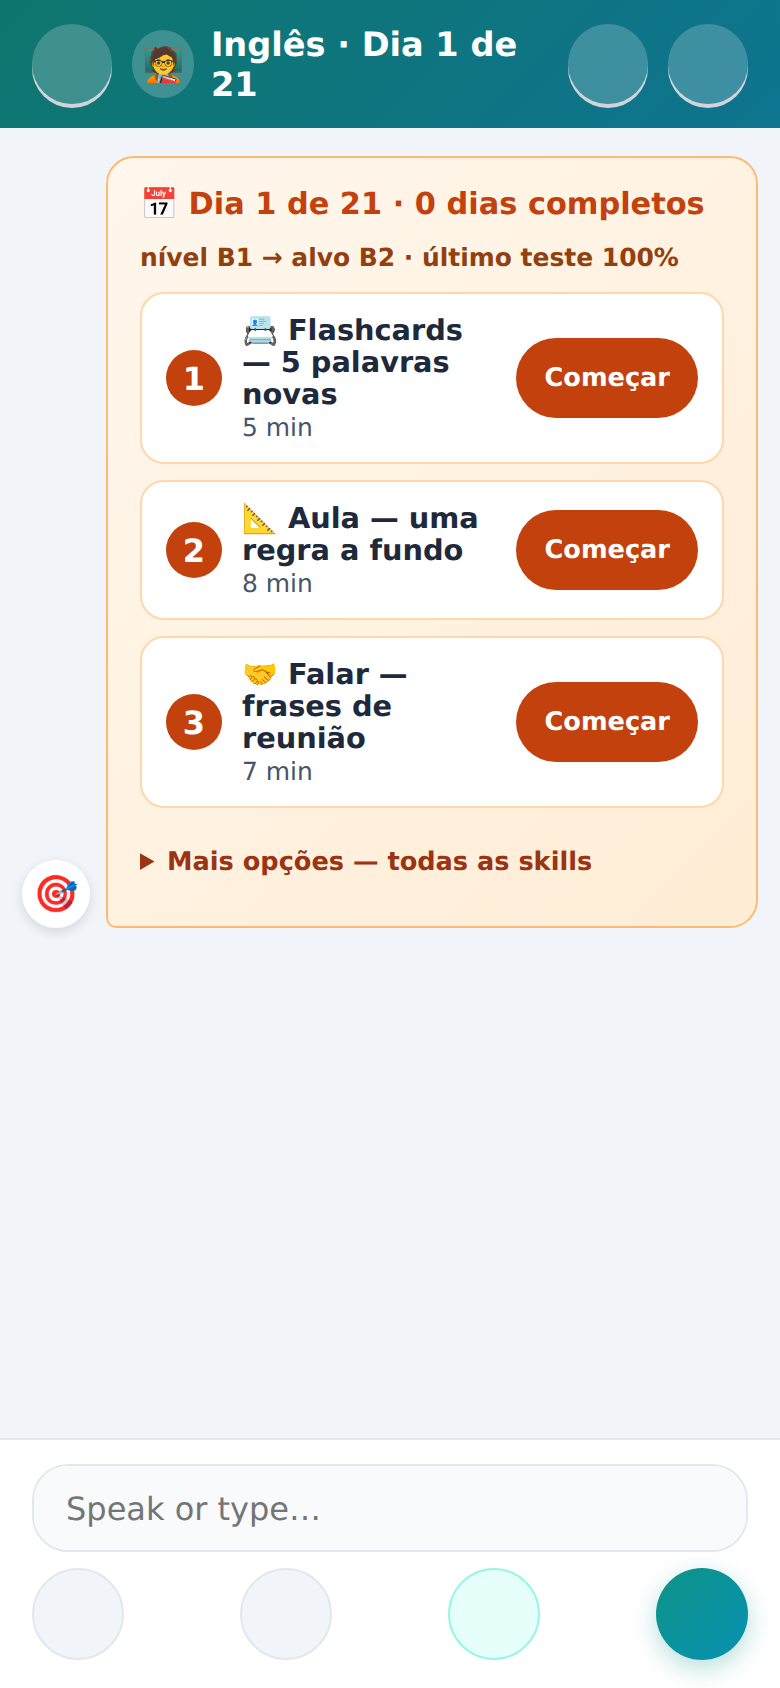
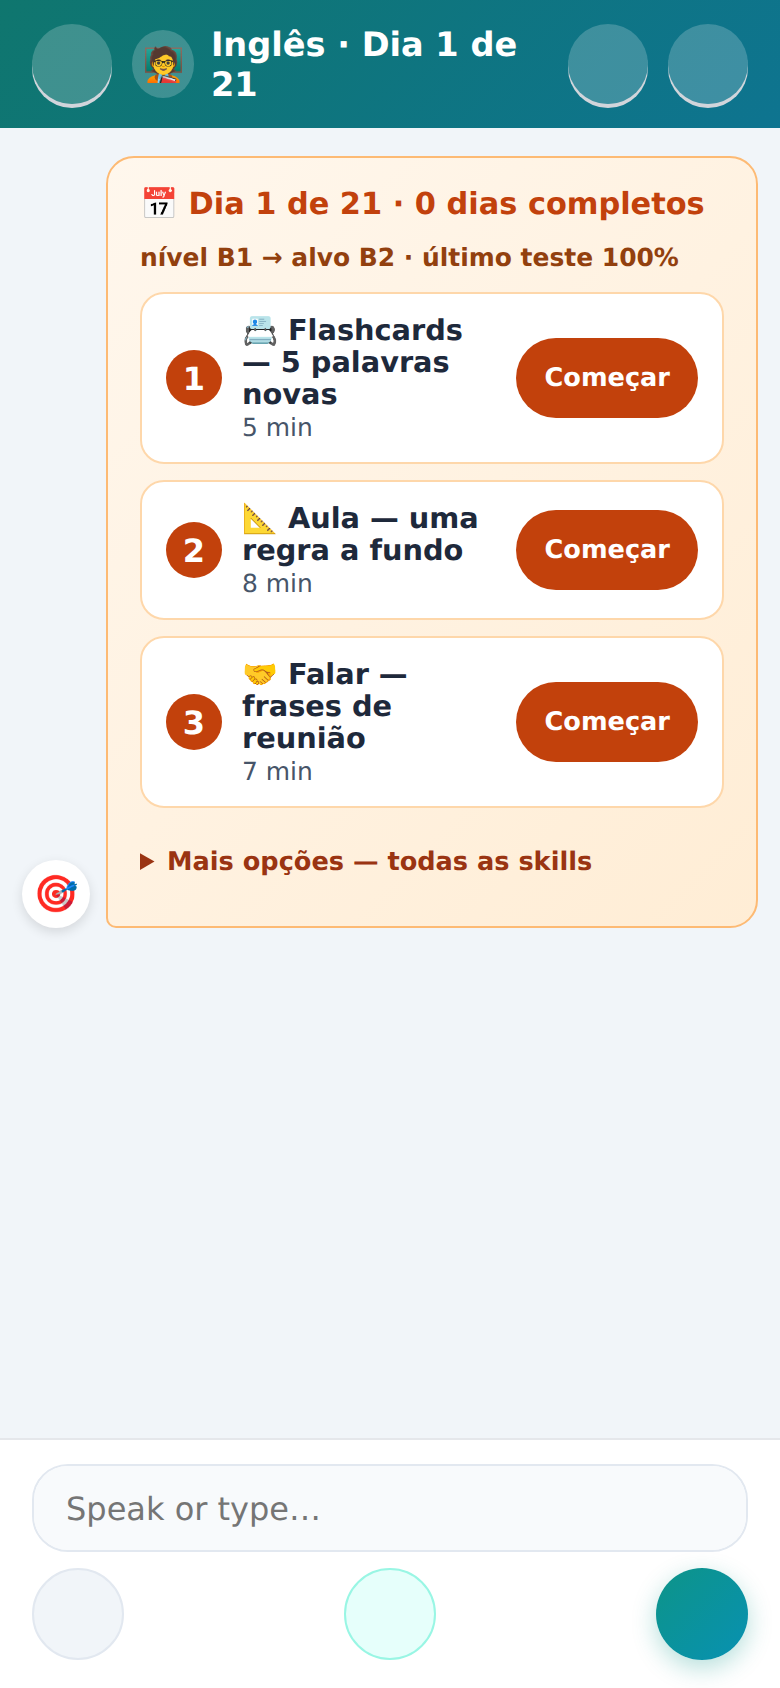
otimização 49/50: barra do tutor sem o botão mãos-livres, que passa para o painel Voz (v632)
- _tutorRenderMic: a barra fica com caixa de texto, dúvida, micro e enviar (antes 4 botões, com o mãos-livres a ocupar espaço para uma opção que está desligada por defeito e raramente se muda)
- openVoicePickerEN: linha "Mãos-livres" com toggle ON/OFF no topo do painel Voz (só quando há micro), a chamar o mesmo _tutorToggleHF
- CSS .tutor-hf-btn removido
- bump v632 (app.js, sw.js)

Testes: plan.mjs 163/163 (teste antigo do mãos-livres atualizado), regress.mjs 46/46, e2e-ui.mjs 18/18, journey.mjs 10/10; captura da barra verificada

Claude-Session: https://claude.ai/code/session_01S6YuyjysjDKUMRDv8VLDf2

Changed region(s): [[0.4308, 0.9242, 0.7077, 0.9858]]

diff --git a/app.js b/app.js
@@ -623,7 +623,7 @@ Object.keys(YEAR_BASE_FILES).forEach(y => {
 });
 
 const _yearExtrasLoaded = {};
-const APP_VERSION = 'v631';
+const APP_VERSION = 'v632';
 // NOTA: a partir da v148, todos os ficheiros _extra*.js são carregados
 // SÍNCRONAMENTE via <script> no index.html. Eliminada a função
 // _loadExtraScript e toda a categoria de bugs "tópicos com 0 exs"
@@ -6984,9 +6984,6 @@ function _tutorRenderMic() {
     const cancelLabel = _tutT('cancel','cancelar');
     const endRpLabel = _tutT('end and review','terminar e avaliar');
     const askLabel = _tutT('Ask a question','Tirar dúvida');
-    const hfLabel = _tutT('Hands-free','Mãos-livres');
-    const hfTitleOn = _tutT('Hands-free ON — tap to turn off','Mãos-livres ATIVO — toca para desligar');
-    const hfTitleOff = _tutT("Hands-free off — tap to turn on (the tutor speaks and listens on its own)",'Mãos-livres desligado — toca para ligar (o professor fala e ouve-te sozinho)');
     const speakLabel = _tutT('Speak','Falar');
     const sendLabel = _tutT('Send','Enviar');
     bar.innerHTML = `
@@ -6997,7 +6994,6 @@ function _tutorRenderMic() {
         <textarea id="tutor-text" class="tutor-text" rows="1" autocomplete="off" autocapitalize="sentences"
                placeholder="${ph}"></textarea>
         <button id="tutor-ask" class="tutor-ask-btn${asking ? ' on' : ''}" aria-label="${askLabel}" title="${askLabel}"><i class="fas fa-circle-question"></i></button>
-        ${sttOk ? `<button id="tutor-hf" class="tutor-hf-btn${_tutorHandsFreeOn() ? ' on' : ''}" aria-label="${hfLabel}" title="${_tutorHandsFreeOn() ? hfTitleOn : hfTitleOff}"><i class="fas fa-headset"></i></button>` : ''}
         ${sttOk ? `<button id="tutor-mic" class="tutor-mic-btn" aria-label="${speakLabel}"><i class="fas fa-microphone"></i></button>` : ''}
         <button id="tutor-send" class="tutor-send" aria-label="${sendLabel}"><i class="fas fa-paper-plane"></i></button>
       </div>`;
@@ -7019,8 +7015,6 @@ function _tutorRenderMic() {
     if (send) send.addEventListener('click', _tutorSubmitText);
     const mic = document.getElementById('tutor-mic');
     if (mic) mic.addEventListener('click', _tutorStartMic);
-    const hf = document.getElementById('tutor-hf');
-    if (hf) hf.addEventListener('click', _tutorToggleHF);
     const askBtn = document.getElementById('tutor-ask');
     if (askBtn) askBtn.addEventListener('click', _tutorToggleAsk);
 }
@@ -17862,6 +17856,11 @@ function openVoicePickerEN() {
         <div style="flex:1;overflow-y:auto;padding-right:4px">
           <button id="voice-test-current" onclick="previewCurrentEN()" style="width:100%;background:#0891b2;color:#fff;border:none;border-radius:12px;padding:12px;font-size:0.9rem;font-weight:800;cursor:pointer;margin-bottom:10px;min-height:44px"><i class="fas fa-play"></i> Testar a voz atual (a que o tutor usa)</button>
           ${engineNote}
+          ${(typeof _tutorCanListen === 'function' && _tutorCanListen()) ? `<div style="display:flex;align-items:center;gap:10px;background:#f1f5f9;border-radius:12px;padding:10px 12px;margin-bottom:12px">
+            <i class="fas fa-headset" style="color:#0f766e"></i>
+            <div style="flex:1;min-width:0"><div style="font-weight:800;font-size:0.86rem;color:#0f172a">Mãos-livres</div><div style="font-size:0.72rem;color:#64748b;line-height:1.3">O professor fala e volta a ouvir-te sozinho, sem tocares no micro.</div></div>
+            <button id="voice-hf-toggle" onclick="_tutorToggleHF();openVoicePickerEN()" style="font-size:0.7rem;font-weight:800;background:${_tutorHandsFreeOn() ? '#22c55e' : '#cbd5e1'};color:#fff;border:none;padding:6px 12px;border-radius:999px;cursor:pointer">${_tutorHandsFreeOn() ? 'ON' : 'OFF'}</button>
+          </div>` : ''}
           ${mistralSection}
           ${edgeSection}
           ${gemSection}

diff --git a/styles.css b/styles.css
@@ -4567,20 +4567,7 @@ body { font-size: var(--fs-base); font-weight: var(--fw-normal); }
     font-size: 1.05rem; cursor: pointer;
 }
 .tutor-ask-btn.on { background: linear-gradient(135deg, #7c3aed, #db2777); color: #fff; border-color: transparent; }
-.tutor-hf-btn {
-    flex: 0 0 auto;
-    width: 46px; height: 46px;
-    border-radius: 50%;
-    border: 1.5px solid #e2e8f0;
-    background: #f1f5f9; color: #64748b;
-    display: flex; align-items: center; justify-content: center;
-    font-size: 1rem; cursor: pointer;
-}
-.tutor-hf-btn { position: relative; }
-.tutor-hf-btn.on { background: linear-gradient(135deg, #0d9488, #0891b2); color: #fff; border-color: transparent; box-shadow: 0 4px 12px rgba(13,148,136,0.35); }
-.tutor-hf-btn.on::after { content: ''; position: absolute; top: 3px; right: 3px; width: 10px; height: 10px; background: #22c55e; border: 2px solid #fff; border-radius: 50%; box-shadow: 0 0 0 0 rgba(34,197,94,0.6); animation: tutorHfPulse 1.6s ease-in-out infinite; }
 @keyframes tutorHfPulse { 0%, 100% { box-shadow: 0 0 0 0 rgba(34,197,94,0.6); } 50% { box-shadow: 0 0 0 6px rgba(34,197,94,0); } }
-.tutor-hf-btn:active { transform: scale(0.96); }
 .tutor-eq { display: inline-flex; align-items: center; gap: 3px; height: 16px; margin-right: 8px; vertical-align: middle; color: #0d9488; }
 .tutor-eq i { display: block; width: 3px; height: 16px; background: currentColor; border-radius: 2px; transform: scaleY(0.2); transform-origin: center; transition: transform 0.08s linear; }
 .tutor-eq.anim i { animation: tutorEq 0.9s ease-in-out infinite; }
